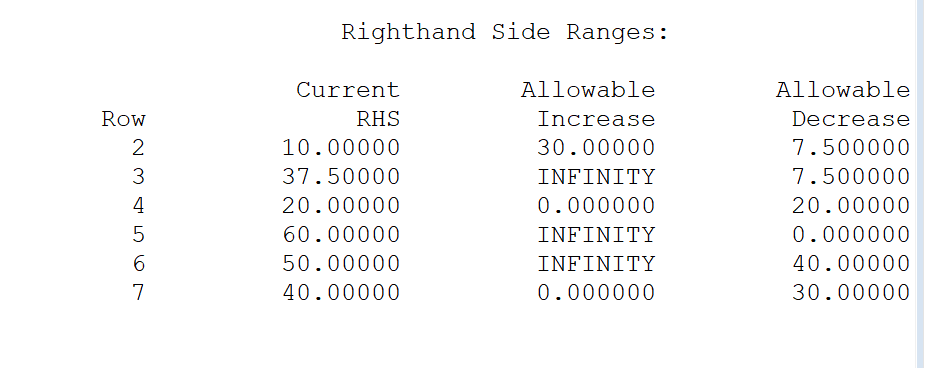
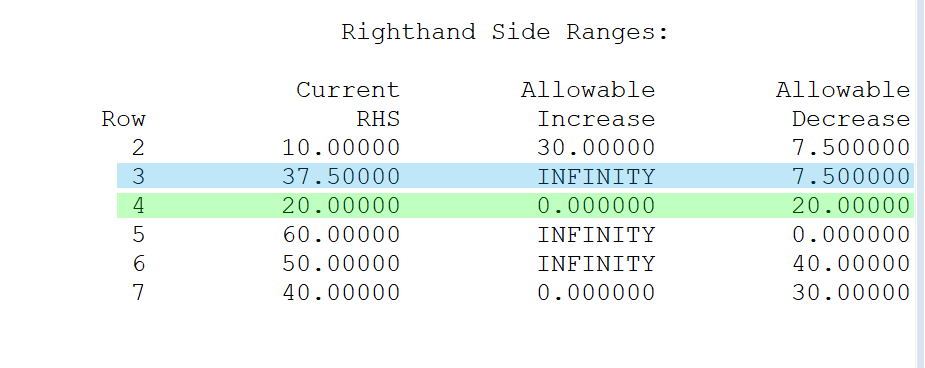
[main] small fixes

Changed region(s): [[0.1211, 0.4185, 0.9989, 0.5978]]

diff --git a/3uebung/abgabe.tex b/3uebung/abgabe.tex
@@ -34,6 +34,8 @@
 & x_1, x_2, x_3, x_4, x_5 \ge 0 \\
 \end{align*}
 
+$\to$ Lösung unzulässig, deshalb ist zuerst die Phase I notwendig. \\
+
 \subsection*{Neue Zielfunktion \emph{s}}
 \begin{align*}
 \text{max. } s &= x_4 \\
@@ -122,24 +124,24 @@ $\to$ Bereits eine max-Zielfunktion. \\
 \begin{align*}
 \text{max. } & z = 5x_1 + x_2 - 2x_3 \\
 \text{s.t. } & x_4 = 25 - x_1 - 2x_2 - 3x_3 \\
-& {\color{red} x_5 = -25} + 5x_1 + 2_x3 \color{red} \longrightarrow \text{Ungültig} \\
+& {\color{red} x_5 = -25} + 5x_1 + 2x_3 \color{red} \longrightarrow \text{Unzulässig} \\
 & x_6 = 25 - 5x_1 - 2x_3 \\
-& {\color{red} x_7 = -30} + 3x_1 - 8x_2 \color{red} \longrightarrow \text{Ungültig} \\
+& {\color{red} x_7 = -30} + 3x_1 - 8x_2 \color{red} \longrightarrow \text{Unzulässig} \\
 & x_1, x_2, x_3, x_4, x_5, x_6, x_7 \ge 0
 \end{align*}
 
-$\to$ Simplex I notwendig.
+$\to$ Lösung unzulässig, deshalb ist zuerst die Phase I notwendig. \\
 
 \subsection*{Neue Zielfunktion \emph{s}}
 \begin{align*}
 \text{max. } s &= x_5 + x_7 \\
-&= (-25 + 5x_1 + 2_x3) + (-30 + 3x_1 - 8x_2) \\
+&= (-25 + 5x_1 + 2x_3) + (-30 + 3x_1 - 8x_2) \\
 &= -55 + {\color{red} 8x_1} - 8x_2 + 2x_3
 \end{align*}
 \begin{align*}
 \text{s.t. } & z = 0 + 5x_1 + x_2 - 2x_3 \\
 & x_4 = 25 - x_1 - 2x_2 - 3x_3 &&\big| x_1 \uparrow 25 \\
-& x_5 = -25 + {\color{red} 5x_1} + 2_x3 &&\big| \color{red} x_1 \uparrow 5 \\
+& x_5 = -25 + {\color{red} 5x_1} + 2x_3 &&\big| \color{red} x_1 \uparrow 5 \\
 & x_6 = 25 - 5x_1 - 2x_3 &&\big| x_1 \uparrow 5 \\
 & x_7 = -30 + 3x_1 - 8x_2 &&\big| x_1 \uparrow 10 \\
 & x_1, x_2, x_3, x_4, x_5, x_6, x_7 \ge 0
@@ -152,7 +154,8 @@ $\to$ Simplex I notwendig.
 & x_1 = 5 - \frac{2}{5}x_3 + \frac{1}{5}x_5 &&\big| x_5 \uparrow \infty \\
 & x_4 = 20 - 2x_2 - \frac{13}{5}x_3 - \frac{1}{5}x_5 &&\big| x_5 \uparrow 100 \\
 & x_6 = 0 - {\color{red} x_5} &&\big| \color{red} x_5 \uparrow 0 \\
-& x_7 = -15 - 8x_2 - \frac{6}{5}x_3 + \frac{3}{5}x_5 &&\big| x_5 \uparrow 25
+& x_7 = -15 - 8x_2 - \frac{6}{5}x_3 + \frac{3}{5}x_5 &&\big| x_5 \uparrow 25 \\
+& x_1, x_2, x_3, x_4, x_5, x_6, x_7 \ge 0
 \end{align*}
 
 \subsection*{Nach Umformen und Einsetzen - Iteration 2}
@@ -162,7 +165,8 @@ $\to$ Simplex I notwendig.
 & x_1 = 5 - \frac{2}{5}x_3 - \frac{1}{5}x_6 \\
 & x_4 = 20 - 2x_2 - \frac{13}{5}x_3 + \frac{1}{5}x_6 \\
 & x_5 = 0 - x_6 \\
-& {\color{red} x_7 = -15} - 8x_2 - \frac{6}{5}x_3 - \frac{3}{5}x_6 \color{red} \longrightarrow \text{Immer noch ungültig}
+& {\color{red} x_7 = -15} - 8x_2 - \frac{6}{5}x_3 - \frac{3}{5}x_6 \color{red} \longrightarrow \text{Immer noch unzulässig} \\
+& x_1, x_2, x_3, x_4, x_5, x_6, x_7 \ge 0
 \end{align*}
 
 $\to$ Abbruchbedingung des Simplex-Algorithmus ist erfüllt, es kann keine zulässige Lösung gefunden werden. \\
@@ -175,7 +179,6 @@ $\to$ Abbruchbedingung des Simplex-Algorithmus ist erfüllt, es kann keine zulä
 $x_{BA}, x_{HI}, x_{ER}, x_{Row3}, x_{Row6}$, da diese für die Lösung nicht auf 0 gesetzt wurden.
 
 \subsection*{b)}
-Der Umsatz pro Tag steigt durch den höheren Preis.
 Die Produktionsmengen bleiben unverändert, da bereits die nach den Restriktionen maximal mögliche Menge Bananeneis produziert wird.
 
 \subsection*{c)}
@@ -187,14 +190,16 @@ $x_{BA}$ wird bereits maximal produziert.\\
 Zulässige Erhöhung: $+ \infty$. \\
 Zulässige Reduktion: $-0,1$ € / Kugel. \\
 
+\vspace{4mm}
 \includegraphics[width=.8\linewidth]{src/zielfunktion.png}
 
 \subsection*{e)}
 
-Die Menge der Bananen darf unendlich erhöht werden. Sie darf um die für 7,5 Kugeln notwendige Menge reduziert werden (300g Bananen). \newline
+[Blau] Die Menge der Bananen darf unendlich erhöht werden. Sie darf um die für 7,5 Kugeln notwendige Menge reduziert werden (300g Bananen). \newline
 
-Die Menge der Erdbeeren darf nicht erhöht werden. Sie darf um die Menge für 20 Kugeln Eis reduziert werden.
+[Grün] Die Menge der Erdbeeren darf nicht erhöht werden. Sie darf um die Menge für 20 Kugeln Eis reduziert werden.
 
+\vspace{4mm}
 \includegraphics[width=.8\linewidth]{src/restriktionen.png}
 
 \end{document}
